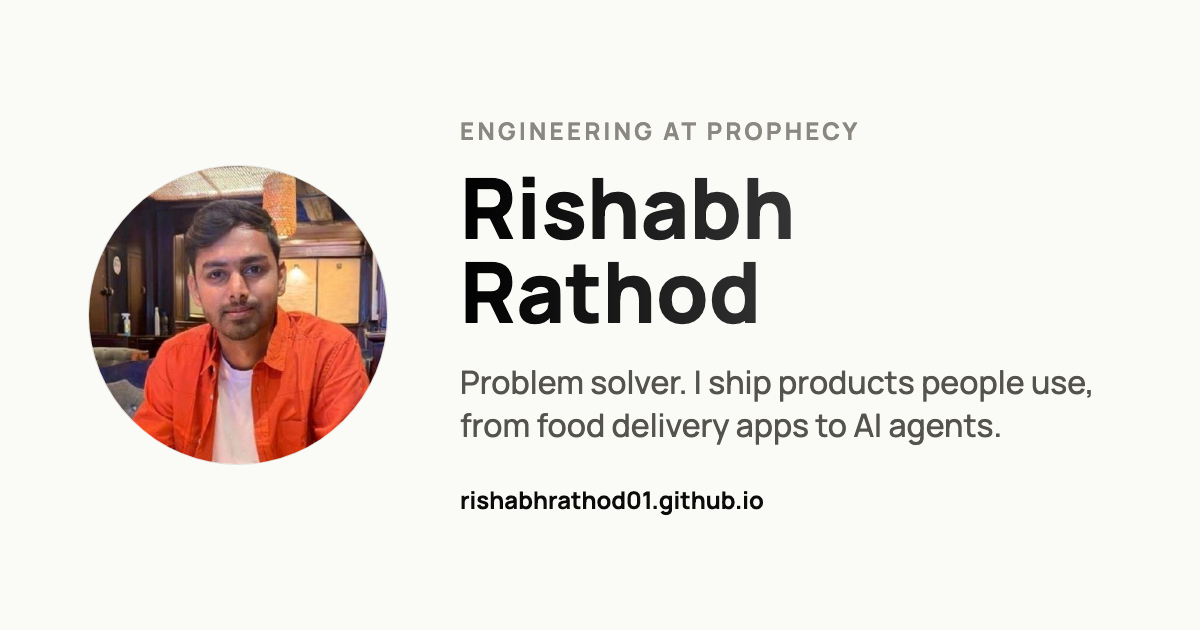
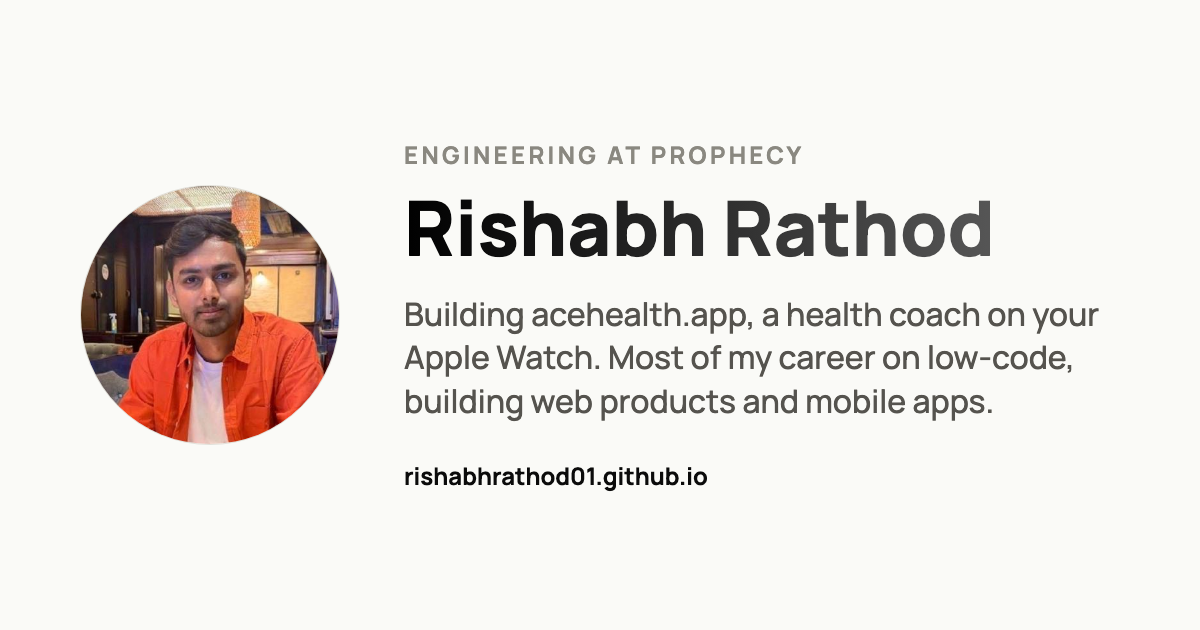
feat: lead with acehealth.app, reframe career as low-code, web and mobile

Changed region(s): [[0.0617, 0.181, 0.925, 0.754], [0.3392, 0.7238, 0.6475, 0.8143]]

diff --git a/lib/data.ts b/lib/data.ts
@@ -2,7 +2,7 @@ export const personalInfo = {
   name: "Rishabh Rathod",
   role: "Engineering at Prophecy",
   tagline:
-    "Problem solver. I ship products people use, from food delivery apps to low-code platforms and AI agents.",
+    "Problem solver, building acehealth.app, a health coach on your Apple Watch. Most of my career went into low-code, building web products and mobile apps.",
   email: "rishabhrathod2012@gmail.com",
   location: "Bengaluru, Karnataka, India",
   social: {
@@ -14,8 +14,8 @@ export const personalInfo = {
   },
   about: {
     short:
-      "I solve problems and ship the fix. Over 7 years that has meant mobile apps, a crypto trading platform, a low-code engine, and AI agents.",
-    long: "I care about what gets shipped and whether it works, not which tool built it. In 7+ years (plus a year of internships) I have shipped a food delivery app, a crypto algo trading platform at Streak, enterprise features and a 200% faster evaluation engine at Appsmith, and now the agentic experience at Prophecy. Outside work I take solo bike trips and fly drones.",
+      "I solve problems and ship the fix. Right now I am building acehealth.app, a health coach on your Apple Watch. For most of my 7+ years that has meant low-code, building web products and mobile apps.",
+    long: "I care about what gets shipped and whether it works, not which tool built it. Right now I am building acehealth.app, a health coach on your Apple Watch. Most of my 7+ years went into low-code, building web products and mobile apps: enterprise features and a 200% faster evaluation engine at Appsmith, and now the agentic experience at Prophecy. Before that I built a crypto algo trading platform at Streak. Outside work I take solo bike trips and fly drones.",
   },
   resume:
     "https://drive.google.com/file/d/1mxMNR2o-UlQ5ycbg64doEkPC7vLpAtgc/view?usp=sharing",

diff --git a/app/page.tsx b/app/page.tsx
@@ -74,7 +74,16 @@ export default async function HomePage() {
             />
           </h1>
           <p className="mt-6 max-w-[680px] text-lg text-slate-muted">
-            To pay my bills, I work in engineering at{" "}
+            I am building{" "}
+            <a
+              href="https://acehealth.app"
+              target="_blank"
+              rel="noopener noreferrer"
+              className="text-on-surface underline decoration-line underline-offset-4 transition-colors hover:decoration-on-surface"
+            >
+              acehealth.app
+            </a>
+            , a health coach on your Apple Watch. To pay my bills, I work in engineering at{" "}
             <a
               href="https://www.prophecy.ai"
               target="_blank"

diff --git a/app/about/page.tsx b/app/about/page.tsx
@@ -30,8 +30,9 @@ export default function AboutPage() {
               I solve problems, then ship the fix.
             </h1>
             <p className="mt-6 max-w-[680px] text-lg text-slate-muted">
-              Engineering at Prophecy. 7+ years of shipping products, from a
-              food delivery app to developer platforms and AI agents.
+              Building acehealth.app, a health coach on your Apple Watch.
+              Engineering at Prophecy. Most of my 7+ years went into low-code,
+              building web products and mobile apps.
             </p>
             <a
               href={personalInfo.resume}
